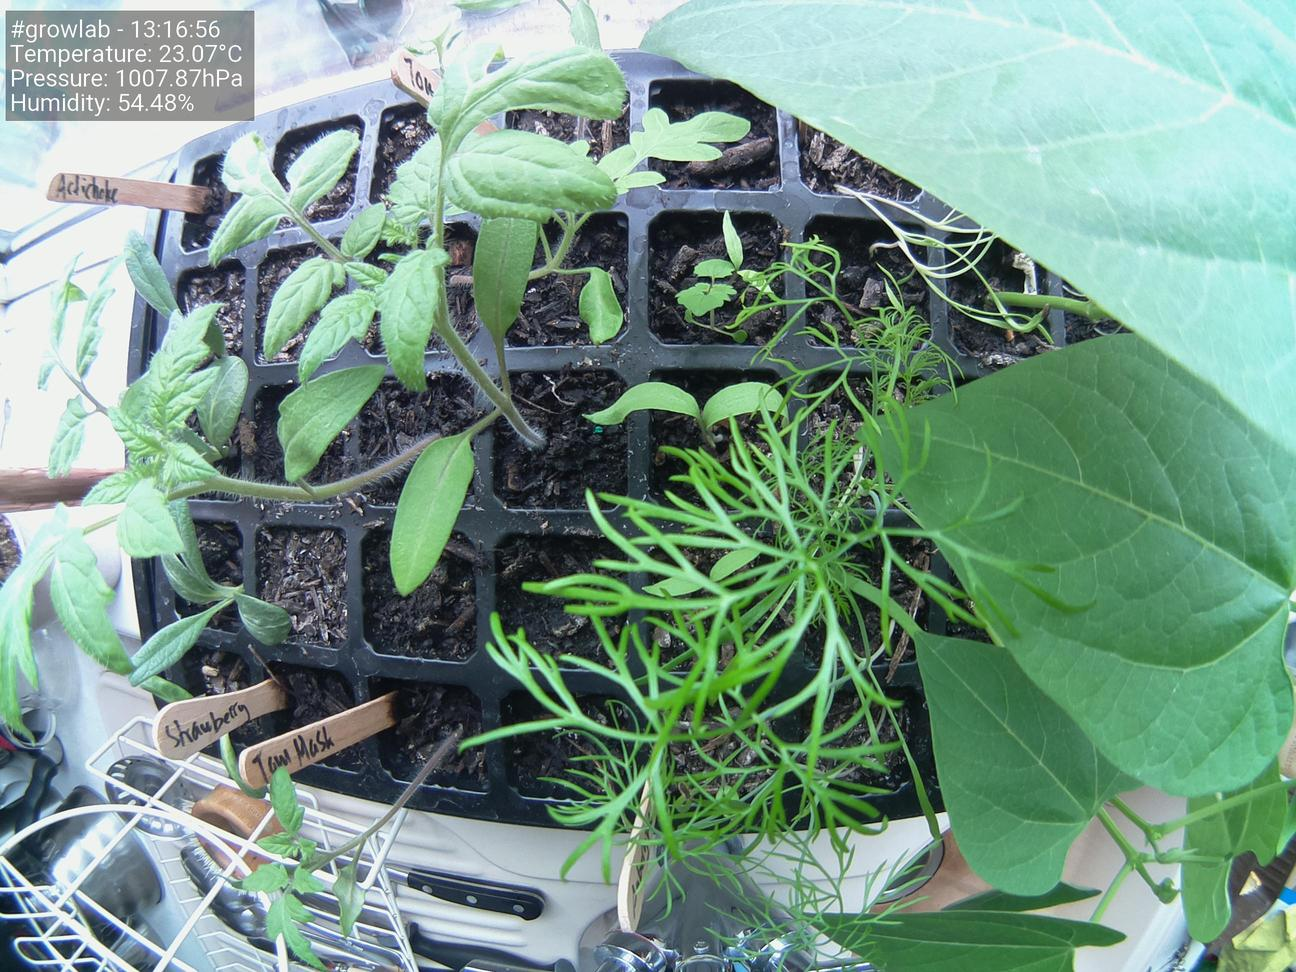
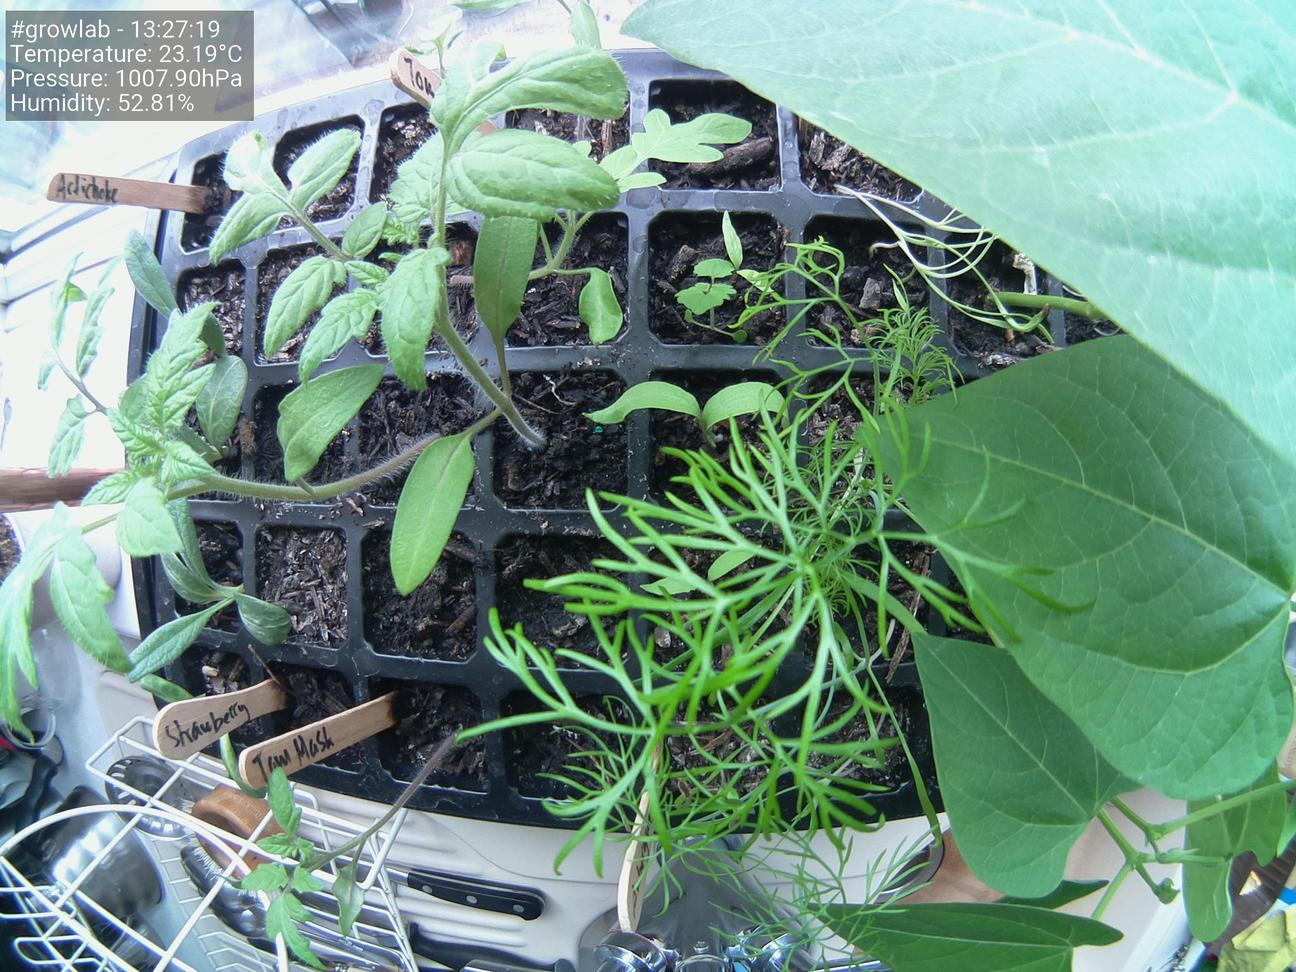
Update images at Wed 28 Apr 13:27:30 BST 2021

diff --git a/docs/index.html b/docs/index.html
@@ -38,19 +38,19 @@
                     <tbody>
                         <tr>
                             <td>Time</td>
-                            <td>13:16:56</td>
+                            <td>13:27:19</td>
                         </tr>
                         <tr>
                             <td>Temperature</td>
-                            <td>23.07°C</td>
+                            <td>23.19°C</td>
                         </tr>
                         <tr>
                             <td>Humidity</td>
-                            <td>54.48%</td>
+                            <td>52.81%</td>
                         </tr>
                         <tr>
                             <td>Pressure</td>
-                            <td>1007.87hPa</td>
+                            <td>1007.90hPa</td>
                         </tr>
                     </tbody>
                 </table>
@@ -58,7 +58,7 @@
 
                 <h5>Latest image</h5>
 		<div style="width: 85%;">
-	                <img class="figure-img img-fluid rounded" src="./preview.jpg?uid=1619612228.0505571">
+	                <img class="figure-img img-fluid rounded" src="./preview.jpg?uid=1619612850.2251132">
 		</div>
             </div>
         </div>
